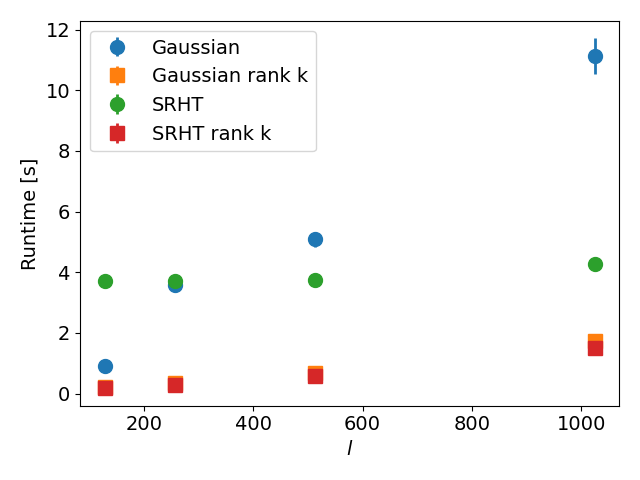
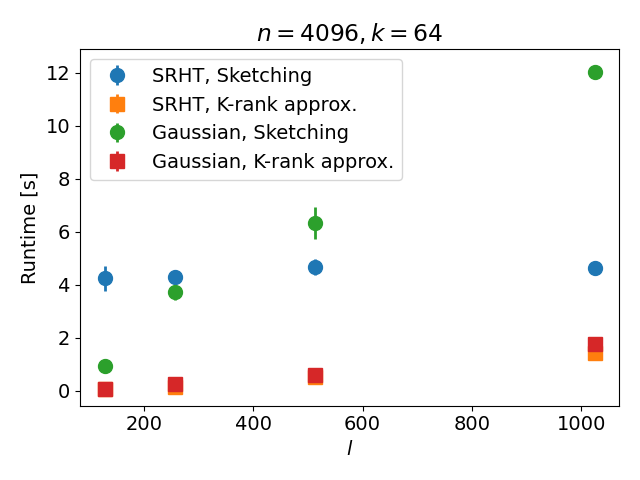
Final performance results.

diff --git a/code/plot.py b/code/plot.py
@@ -4,6 +4,10 @@ from matplotlib import pyplot as plt
 import h5py
 import data_generation as dg
 
+ALGOS = ['SRHT', 'Gaussian']
+FMTS = ['s', 'o']
+COLS = ['tab:blue', 'tab:orange']
+
 # fix rcParams for plotting
 plt.rcParams.update({'font.size': 14})
 plt.rcParams.update({'lines.linewidth': 2, 'lines.markersize': 10})
@@ -30,20 +34,22 @@ def file_to_dict( file ):
         data_dict = h5_to_dict(f)
     return data_dict
 
-def import_data():
+def import_data( n_cores ):
     '''
     Import data from ../output/sequential_performance.h5 and ../output/sequential_performance.h5.
     Use the function h5_to_dict to convert the h5py file into a dictionary.
     '''
     seq_data_dict = {}
     par_data_dict = {}
-    seq_file = f'../output/sequential_performance.h5'
-    par_file = f'../output/parallel_performance.h5'
+    seq_file = f'../output/sequential_performance'
+    par_file = f'../output/parallel_performance'
     
-    with h5py.File(seq_file, 'r') as f:
+    with h5py.File(f'{seq_file}.h5', 'r') as f:
         seq_data_dict = h5_to_dict(f)
-    with h5py.File(par_file, 'r') as f:
-        par_data_dict = h5_to_dict(f)
+
+    for n_core in n_cores:
+        with h5py.File(f'{par_file}_ncores_{n_core}.h5', 'r') as f:
+            par_data_dict[f'ncores={n_core}'] = h5_to_dict(f)
 
     return seq_data_dict, par_data_dict
 
@@ -54,10 +60,8 @@ def l_variation( seq_data_dict ):
     ls = seq_data_dict['parameters']['ls']
     n = seq_data_dict['parameters']['n']
     k = seq_data_dict['parameters']['k']
-    algos = list(seq_data_dict.keys())
-    algos.remove('parameters')
     fig, ax = plt.subplots()
-    for algo in algos:
+    for algo in ALGOS:
         sketch_means = np.zeros((len(ls)))
         sketch_stds = np.zeros((len(ls)))
         krank_means = np.zeros((len(ls)))
@@ -69,10 +73,11 @@ def l_variation( seq_data_dict ):
             sketch_stds[i] = seq_data_dict[algo][f'sketch_ts_{lab}_std']
             krank_means[i] = seq_data_dict[algo][f'k_rank_ts_{lab}_mean']
             krank_stds[i] = seq_data_dict[algo][f'k_rank_ts_{lab}_std']
-        ax.errorbar(ls, sketch_means, yerr=sketch_stds, fmt='o', label=f'{algo}')
-        ax.errorbar(ls, krank_means, yerr=krank_stds, fmt='s', label=f'{algo} rank k')
+        ax.errorbar(ls, sketch_means, yerr=sketch_stds, fmt='o', label=f'{algo}, Sketching')
+        ax.errorbar(ls, krank_means, yerr=krank_stds, fmt='s', label=f'{algo}, K-rank approx.')
     ax.set_xlabel('$l$')
     ax.set_ylabel('Runtime [s]')
+    ax.set_title(f'$n={n}, k={k}$')
     ax.legend()
     plt.savefig('../figures/runtimes_l_variation.png')
     return
@@ -84,10 +89,9 @@ def n_variation( seq_data_dict ):
     ns = seq_data_dict['parameters']['ns']
     l = seq_data_dict['parameters']['l']
     k = seq_data_dict['parameters']['k']
-    algos = list(seq_data_dict.keys())
-    algos.remove('parameters')
+    
     fig, ax = plt.subplots()
-    for algo in algos:
+    for j, algo in enumerate(ALGOS):
         sketch_means = np.zeros((len(ns)))
         sketch_stds = np.zeros((len(ns)))
         krank_means = np.zeros((len(ns)))
@@ -98,10 +102,11 @@ def n_variation( seq_data_dict ):
             sketch_stds[i] = seq_data_dict[algo][f'sketch_ts_{lab}_std']
             krank_means[i] = seq_data_dict[algo][f'k_rank_ts_{lab}_mean']
             krank_stds[i] = seq_data_dict[algo][f'k_rank_ts_{lab}_std']
-        ax.errorbar(ns, sketch_means, yerr=sketch_stds, fmt='o', label=f'{algo}')
-        ax.errorbar(ns, krank_means, yerr=krank_stds, fmt='s', label=f'{algo} rank k')
+        ax.errorbar(ns, sketch_means, yerr=sketch_stds, fmt=FMTS[0], label=f'{algo}, Sketching')
+        ax.errorbar(ns, krank_means, yerr=krank_stds, fmt=FMTS[1], label=f'{algo}, K-rank approx.')
     ax.set_xlabel('$n$')
     ax.set_ylabel('Runtime [s]')
+    ax.set_title(f'$l={l}, k={k}$')
     ax.legend()
     plt.savefig('../figures/runtimes_n_variation.png')
     return
@@ -110,18 +115,16 @@ def cores_variation( par_data_dict, ns_cores ):
     '''
     Plot the average runtimes for the parallel algorithms as a function of the number of cores.
     '''
-    n_small = par_data_dict['parameters']['n_small']
-    n_large = par_data_dict['parameters']['n_large']
-    l_small = par_data_dict['parameters']['l_small']
-    l_large = par_data_dict['parameters']['l_large']
-    k_small = par_data_dict['parameters']['k_small']
-    k_large = par_data_dict['parameters']['k_large']
-    algos = ['SRHT', 'Gaussian']
-    fmts = ['o', 's']
-    cols = ['tab:blue', 'tab:orange']
+    n_small = par_data_dict[f'ncores={ns_cores[0]}']['parameters']['n_small']
+    n_large = par_data_dict[f'ncores={ns_cores[0]}']['parameters']['n_large']
+    l_small = par_data_dict[f'ncores={ns_cores[0]}']['parameters']['l_small']
+    l_large = par_data_dict[f'ncores={ns_cores[0]}']['parameters']['l_large']
+    k_small = par_data_dict[f'ncores={ns_cores[0]}']['parameters']['k_small']
+    k_large = par_data_dict[f'ncores={ns_cores[0]}']['parameters']['k_large']
+
     fig, ax = plt.subplots(1,2, figsize=(12,6))
     n_cores = len(ns_cores)
-    for j,algo in enumerate(algos):
+    for j,algo in enumerate(ALGOS):
         sketch_means_small = np.zeros(n_cores)
         sketch_stds_small = np.zeros(n_cores)
         sketch_means_large = np.zeros(n_cores)
@@ -130,26 +133,37 @@ def cores_variation( par_data_dict, ns_cores ):
         krank_stds_small = np.zeros(n_cores)
         krank_means_large = np.zeros(n_cores)
         krank_stds_large = np.zeros(n_cores)
-        for i, n_cores in enumerate(ns_cores):
+        for i, n_cores_ in enumerate(ns_cores):
             lab_small = f'n={n_small}_l={l_small}_k={k_small}'
             lab_large = f'n={n_large}_l={l_large}_k={k_large}'
-            sketch_means_small[i] = par_data_dict[f'{algo}_cores={n_cores}'][f'sketch_ts_{lab_small}_mean']
-            sketch_stds_small[i] = par_data_dict[f'{algo}_cores={n_cores}'][f'sketch_ts_{lab_small}_std']
-            sketch_means_large[i] = par_data_dict[f'{algo}_cores={n_cores}'][f'sketch_ts_{k_large}_mean']
-            sketch_stds_large[i] = par_data_dict[f'{algo}_cores={n_cores}'][f'sketch_ts_{k_large}_std']
-            krank_means_small[i] = par_data_dict[f'{algo}_cores={n_cores}'][f'k_rank_ts_{lab_small}_mean']
-            krank_stds_small[i] = par_data_dict[f'{algo}_cores={n_cores}'][f'k_rank_ts_{lab_small}_std']
-            krank_means_large[i] = par_data_dict[f'{algo}_cores={n_cores}'][f'k_rank_ts_{lab_large}_mean']
-            krank_stds_large[i] = par_data_dict[f'{algo}_cores={n_cores}'][f'k_rank_ts_{lab_large}_std']
-        ax[0].errorbar(ns_cores, sketch_means_small, yerr=sketch_stds_small, fmt=fmts[j], color=cols[0])
-        ax[0].errorbar(ns_cores, krank_means_small, yerr=krank_stds_small, fmt=fmts[j], color=cols[1])
-        ax[1].errorbar(ns_cores, sketch_means_large, yerr=sketch_stds_large, fmt=fmts[j], color=cols[0])
-        ax[1].errorbar(ns_cores, krank_means_large, yerr=krank_stds_large, fmt=fmts[j], color=cols[1])
-    ax.set_xlabel('Number of cores')
-    ax.set_ylabel('Runtime [s]')
-    ax[0].set_suptitle(lab_small.replace('_',' '))
-    ax[1].set_suptitle(lab_large.replace('_',' '))
-    ax.legend()
+            sketch_means_small[i] = par_data_dict[f'ncores={n_cores_}'][f'{algo}'][f'sketch_ts_{lab_small}_mean']
+            sketch_stds_small[i] = par_data_dict[f'ncores={n_cores_}'][f'{algo}'][f'sketch_ts_{lab_small}_std']
+            sketch_means_large[i] = par_data_dict[f'ncores={n_cores_}'][f'{algo}'][f'sketch_ts_{lab_large}_mean']
+            sketch_stds_large[i] = par_data_dict[f'ncores={n_cores_}'][f'{algo}'][f'sketch_ts_{lab_large}_std']
+            krank_means_small[i] = par_data_dict[f'ncores={n_cores_}'][f'{algo}'][f'k_rank_ts_{lab_small}_mean']
+            krank_stds_small[i] = par_data_dict[f'ncores={n_cores_}'][f'{algo}'][f'k_rank_ts_{lab_small}_std']
+            krank_means_large[i] = par_data_dict[f'ncores={n_cores_}'][f'{algo}'][f'k_rank_ts_{lab_large}_mean']
+            krank_stds_large[i] = par_data_dict[f'ncores={n_cores_}'][f'{algo}'][f'k_rank_ts_{lab_large}_std']
+        ax[0].errorbar(ns_cores, sketch_means_small, yerr=sketch_stds_small, fmt=FMTS[0], \
+            label=f'{algo}, Sketching')
+        ax[0].errorbar(ns_cores, krank_means_small, yerr=krank_stds_small, fmt=FMTS[1], \
+             label=f'{algo}, K-rank approx.')
+        ax[1].errorbar(ns_cores, sketch_means_large, yerr=sketch_stds_large, fmt=FMTS[0], \
+            label=f'{algo}, Sketching')
+        ax[1].errorbar(ns_cores, krank_means_large, yerr=krank_stds_large, fmt=FMTS[1], \
+            label=f'{algo}, K-rank approx.')
+    ax[0].set_xlabel('Number of cores')
+    ax[0].set_ylabel('Runtime [s]')
+    ax[0].set_xscale('log')
+    ax[0].set_yscale('log')
+    ax[1].set_xscale('log')
+    ax[1].set_yscale('log')
+    ax[1].set_xlabel('Number of cores')
+    ax[1].set_ylabel('Runtime [s]')
+    ax[0].set_title(f'${lab_small.replace('_',', ')}$')
+    ax[1].set_title(f'${lab_large.replace('_',', ')}$')
+    ax[0].legend()
+    ax[1].legend()
     plt.savefig('../figures/runtimes_cores_variation.png')
     return
 
@@ -178,15 +192,46 @@ def plot_synthetic_spectra( n, r ):
     return
 
 
+def merge_figures( figname_1, figname_2, figname ):
+    '''
+    Generate a new figure by merging two figures (as in putting them side by side).
+
+    Parameters
+    ----------
+    figname_1 : str
+        Path to the first figure.
+    figname_2 : str
+        Path to the second figure.
+    figname : str
+        Name of the merged figure.
+    '''
+    import matplotlib.image as mpimg
+
+    img1 = mpimg.imread(f'../figures/{figname_1}.png')
+    img2 = mpimg.imread(f'../figures/{figname_2}.png')
+
+    fig, axes = plt.subplots(1, 2, figsize=(10, 5.5))  
+
+    axes[0].imshow(img1)
+    axes[0].axis('off') 
+
+    axes[1].imshow(img2)
+    axes[1].axis('off') 
+
+#    plt.tight_layout()
+    plt.savefig(f'../figures/{figname}.png', dpi=300)  
+
+
 
 if __name__ == '__main__':
     #plot_synthetic_spectra( 30+5, 5 )
-    seq_data_dict, par_data_dict = import_data()
+    ncores = [1,4,16,64]
+    seq_data_dict, par_data_dict = import_data(ncores)
+
     l_variation( seq_data_dict )
     n_variation( seq_data_dict )
-    cores_variation( par_data_dict, [4,16] )
+    cores_variation( par_data_dict, ncores )
 
-#  with h5py.File(f'{output_file}.h5', 'r') as f:
-#       print(f['Gaussian'].keys())
-#        print(f['SRHT'].keys())
+    merge_figures('runtimes_l_variation', 'runtimes_n_variation', 'runtimes_l_n_variation')
+
         

diff --git a/code/sequential_performance.py b/code/sequential_performance.py
@@ -25,7 +25,7 @@ def analysis( A_ij, n, l, k, sketch_type, seed_factor, comm, n_rep, output_file 
     return
 
 if __name__ == '__main__':
-    n_rep = 2
+    n_rep = 3 + 1
 
     log2_l_min = 7
     log2_l_max = 10
@@ -33,12 +33,12 @@ if __name__ == '__main__':
     ls = 2 ** log2_ls
     n = 2 ** (log2_l_max+2)
 
-    log2_n_min = 10
-    log2_n_max = 13
+    log2_n_min = 8
+    log2_n_max = 11
     log2_ns = np.arange(log2_n_min, log2_n_max+1).astype(int)
     ns = 2 ** log2_ns
-    l = 2 ** (log2_n_min-2)
-    k = l // 3
+    l = 2 ** (log2_n_min-1)
+    k = l // 2
 
     seed_factor = 1234
 

diff --git a/code/parallel.py b/code/parallel.py
@@ -142,7 +142,7 @@ def seq_rank_k_approx( B, C, n, k, alternative=False, return_A_k=True ):
     B : np.ndarray, A @ Omega
     C : np.ndarray, Omega.T @ A @ Omega
     '''
-    assert len(B) > k, 'We should have l>k'
+    assert len(B) >= k, 'We should have l>=k'
 
     U_hat = None
     S_2 = None

diff --git a/code/stability_seq.py b/code/stability_seq.py
@@ -67,7 +67,7 @@ if __name__ == "__main__":
     log2_l_min, log2_l_max = 6, 9
     ls = 2 ** np.arange(log2_l_min, log2_l_max + 1).astype(int)
     ks = np.linspace(25, max(ls), 10).astype(int)
-    output_dir = "./results"
+    output_dir = "../figures"
 
     
     datasets = [
